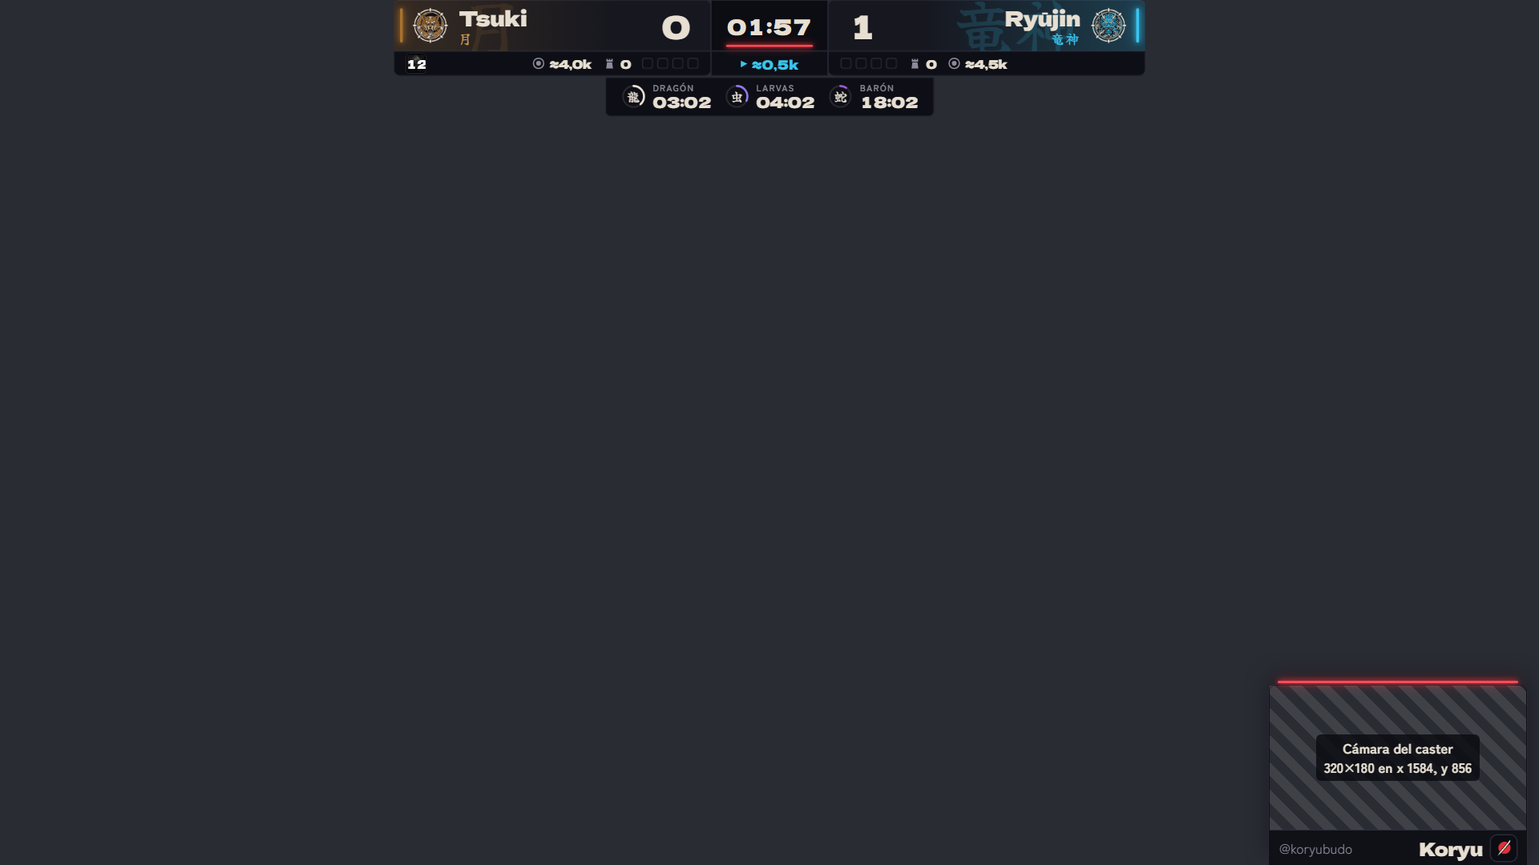
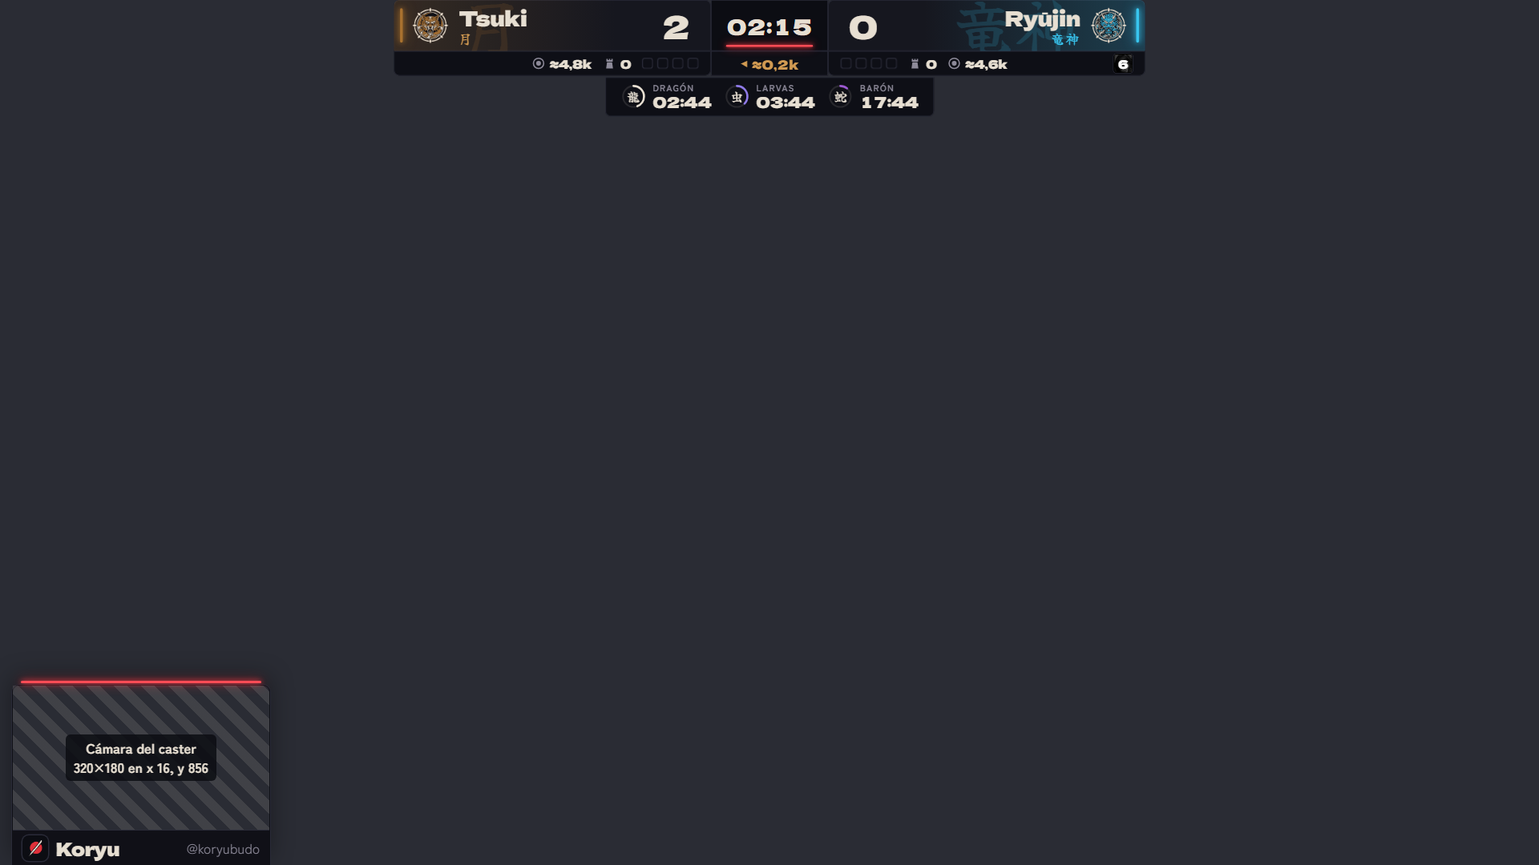
Partida: la cámara del caster vuelve abajo a la izquierda; el minimapa, abajo a la derecha
El usuario aclara que el marco del minimapa se queda pegado abajo a la
derecha, para que cuadre con el mapa del LoL. Por eso:

- La cámara del caster en partida pasa al hueco izquierdo de siempre: 320×180
  en x 16, y 856, con la placa de 44 px (sin espejo, radio de siempre). Sigue
  siendo una sola, aparte del línea por línea y con su interruptor.
- ZONA_MINIMAPA pasa a la derecha: x 1620, y 780, 300×300.
- Ficha azul: vuelve a x 72 y, con la cámara fuera, se aparta a x 360.
- Ficha roja: a 324 px del borde derecho (a 72 se metía en el minimapa).
- Textos del panel, README, PROGRESO y pruebas al día; capturas rehechas.

diff --git a/test/ingame.test.js b/test/ingame.test.js
@@ -226,47 +226,50 @@ test('el línea por línea va encogido a ESCALA_LINEAS: su caja de 1560×436 que
   const lineas = cajaLineas();
   assert.ok(Math.abs(lineas.x - 429.6) < 1 && Math.abs(lineas.x + lineas.w - 1490.4) < 1 && Math.abs(lineas.y - 783.5) < 1);
   assert.equal(lineas.y + lineas.h, 1080);
-  // Y no pisa la zona del minimapa, que va abajo a la izquierda
+  // Y no pisa la zona del minimapa, que va abajo a la derecha
   assert.ok(!seCruzan(lineas, ZONA_MINIMAPA), 'el línea por línea no pisa el minimapa');
 });
 
-test('la cámara del caster en partida: un solo hueco en 16:9 abajo a la derecha, con la placa hasta el borde', () => {
+test('la cámara del caster en partida: un solo hueco en 16:9 abajo a la izquierda, con la placa hasta el borde', () => {
   const h = camaraPartida();
-  assert.deepEqual(h, { x: 1584, y: 856, w: 320, h: 180 });
+  assert.deepEqual(h, { x: 16, y: 856, w: 320, h: 180 });
   assert.equal(h.w / h.h, 16 / 9, 'la cámara no se deforma');
   assert.equal(h.y + h.h + PLACA_CAMARA_PARTIDA, 1080, 'la placa del nombre llega justo al borde de abajo');
-  assert.ok(h.x + h.w + FILO_MARCO <= 1920, 'dentro del lienzo, con su filo');
+  assert.ok(h.x - FILO_MARCO >= 0, 'dentro del lienzo, con su filo');
   assert.equal(PLACA_CAMARA_PARTIDA, 44);
-  // La placa mide lo mismo en el CSS, y el marco lleva el radio de Gokudō arriba, como siempre
-  assert.match(leerRepo('public/ingame/ingame.css'), /\.placa-cam \{[^}]*height: 44px/);
+  // La placa mide lo mismo en el CSS, y el marco lleva el radio de Gokudō arriba, como siempre (sin espejo: va a la izquierda)
+  const css = leerRepo('public/ingame/ingame.css');
+  assert.match(css, /\.placa-cam \{[^}]*height: 44px/);
+  assert.ok(!/\.camara-partida \.placa-cam \{ flex-direction: row-reverse/.test(css));
   assert.match(leerRepo('public/ingame/estilo-a.css'), /\.camara-partida \{ border-radius: 8px 8px 0 0;/);
-  // El nombre de antes sigue valiendo, pero ya solo da este hueco (la cámara de la izquierda se quitó)
+  // El nombre de antes sigue valiendo, pero ya solo da este hueco (la cámara de la derecha se quitó)
   assert.deepEqual(camarasLineas(), [h]);
 });
 
-test('nada del overlay pisa el minimapa de abajo a la izquierda, y la cámara no pisa el línea por línea ni las fichas', () => {
-  // La zona del minimapa: el marco del realizador en x 30, y 804, 250×250, con su placa de 10, su sombra y la pestaña
-  // de arriba (unos 20 px por fuera)
-  const marco = { x: 30, y: 804, w: 250, h: 250 };
-  assert.ok(ZONA_MINIMAPA.x <= marco.x - 20 && ZONA_MINIMAPA.y <= marco.y - 20, 'la zona cubre el marco y lo que asoma');
-  assert.ok(ZONA_MINIMAPA.x + ZONA_MINIMAPA.w >= marco.x + marco.w + 20 && ZONA_MINIMAPA.y + ZONA_MINIMAPA.h === 1080);
+test('nada del overlay pisa el marco del minimapa de abajo a la derecha, y la cámara no pisa el línea por línea ni las fichas', () => {
+  // La zona del minimapa: su marco va pegado a la esquina de abajo a la derecha (más o menos de x 1640 a 1920 y de
+  // y 780 al borde, lo calibra el realizador), con algo de aire
+  assert.deepEqual(ZONA_MINIMAPA, { x: 1620, y: 780, w: 300, h: 300 });
+  assert.ok(ZONA_MINIMAPA.x <= 1640 && ZONA_MINIMAPA.y <= 780 && ZONA_MINIMAPA.x + ZONA_MINIMAPA.w >= 1920 && ZONA_MINIMAPA.y + ZONA_MINIMAPA.h >= 1080);
   const cam = marcoCamara(camaraPartida());
   assert.ok(!seCruzan(cam, ZONA_MINIMAPA), 'la cámara no pisa el minimapa');
   const lineas = cajaLineas();
   assert.ok(!seCruzan(cam, lineas), 'la cámara no pisa el línea por línea');
-  assert.ok(cam.x > lineas.x + lineas.w, 'y queda a su derecha, con aire');
+  assert.ok(cam.x + cam.w < lineas.x, 'y queda a su izquierda, con aire');
   // El marcador, los temporizadores, los módulos y los avisos van todos arriba (top de 112 a 172 px, en .arriba)
   assert.ok(cam.y > 700, 'muy por debajo del marcador y los avisos');
-  // Las fichas: la del lado azul empieza pasado el minimapa; la del rojo, con la cámara fuera, se aparta a su izquierda
+  // Las fichas: la del lado rojo no pisa el minimapa; la del azul, con la cámara fuera, se aparta a su derecha
   const css = leerRepo('public/ingame/ingame.css');
   const azul = cajaFicha({ left: px(reglaCss(css, '.ficha.azul'), 'left') });
+  const azulConCamara = cajaFicha({ left: px(reglaCss(css, 'body.con-camara-partida .ficha.azul'), 'left') });
   const rojo = cajaFicha({ right: px(reglaCss(css, '.ficha.rojo'), 'right') });
-  const rojoConCamara = cajaFicha({ right: px(reglaCss(css, 'body.con-camara-partida .ficha.rojo'), 'right') });
-  assert.ok([azul, rojo, rojoConCamara].every(f => Number.isFinite(f.x)), 'las tres posiciones se leen del CSS');
-  assert.ok(!seCruzan(azul, ZONA_MINIMAPA), 'la ficha azul no pisa el minimapa');
-  assert.ok(!seCruzan(rojo, ZONA_MINIMAPA) && !seCruzan(rojoConCamara, ZONA_MINIMAPA));
-  assert.ok(!seCruzan(rojoConCamara, cam), 'la ficha roja se aparta de la cámara');
-  assert.ok(azul.x < 960 && rojoConCamara.x + rojoConCamara.w > 960, 'cada una sigue en su lado');
+  assert.ok([azul, azulConCamara, rojo].every(f => Number.isFinite(f.x)), 'las tres posiciones se leen del CSS');
+  assert.equal(azul.x, 72, 'sin cámara, la ficha azul sigue donde estaba');
+  for (const f of [azul, azulConCamara, rojo]) assert.ok(!seCruzan(f, ZONA_MINIMAPA), 'ninguna ficha pisa el minimapa');
+  assert.ok(seCruzan(azul, cam), 'sin apartarse, la ficha azul chocaría con la cámara');
+  assert.ok(!seCruzan(azulConCamara, cam), 'la ficha azul se aparta de la cámara');
+  assert.ok(!seCruzan(rojo, cam));
+  assert.ok(azulConCamara.x < 960 && rojo.x + rojo.w > 960, 'cada una sigue en su lado');
 });
 
 // Las funciones de verdad de ingame.js, sacadas del archivo y ejecutadas con lo mínimo alrededor (sin navegador)
@@ -308,7 +311,7 @@ test('la cámara del caster sale por su cuenta en partida, se vea o no el línea
     pintarGraficos();
     assert.equal(mundo.pintadas.length, 1, `sale también con ${tipo}`);
   }
-  // Quitada en el panel: se va (aunque esté el línea por línea), y la ficha roja vuelve a su sitio
+  // Quitada en el panel: se va (aunque esté el línea por línea), y la ficha azul vuelve a su sitio
   mundo.estado = { grafico: { tipo: 'lineas' }, ingame: { camaras: camaras(false) } };
   pintarGraficos();
   assert.equal(mundo.lineas, true);

diff --git a/public/ingame/ingame.css b/public/ingame/ingame.css
@@ -224,7 +224,7 @@ body.oculto .sello::before, body.oculto .retrato::before { animation-play-state:
 .barra .relleno.rojo { left: 50%; transform-origin: 0 50%; }
 .dif { white-space: nowrap; }
 
-/* ---------- Cámara del caster en partida (abajo a la derecha; a la izquierda va el minimapa) ---------- */
+/* ---------- Cámara del caster en partida (abajo a la izquierda; a la derecha va el minimapa) ---------- */
 /* La ventana es transparente: la cámara va por debajo del overlay en OBS, en la posición que da el panel
    (camaraPartida en comun.js, que es quien la coloca). Entra y sale por su cuenta, se vea o no el línea por línea */
 .camaras-partida { position: absolute; inset: 0; pointer-events: none; }
@@ -239,9 +239,6 @@ body.oculto .sello::before, body.oculto .retrato::before { animation-play-state:
 .sello-cam img { width: 24px; height: 24px; object-fit: contain; }
 .nombre-cam { position: relative; min-width: 0; white-space: nowrap; overflow: hidden; text-overflow: ellipsis; }
 .detalle-cam { position: relative; min-width: 0; margin-left: auto; white-space: nowrap; overflow: hidden; text-overflow: ellipsis; }
-/* Va en el lado derecho: en espejo, como todo el lado rojo */
-.camara-partida .placa-cam { flex-direction: row-reverse; }
-.camara-partida .detalle-cam { margin-left: 0; margin-right: auto; }
 /* Guía para colocar las cámaras en OBS (?guia=1 o la vista previa del panel): la ventana rayada, con su medida */
 .medidas-cam { display: none; }
 body.guia .medidas-cam { display: grid; place-items: center; position: absolute; inset: 0;
@@ -250,12 +247,12 @@ body.guia .medidas-cam { display: grid; place-items: center; position: absolute;
 
 /* ---------- Ficha de un jugador (abajo, en el lado de su clan) ---------- */
 .ficha { position: absolute; bottom: 56px; display: grid; grid-template-columns: 290px 400px; gap: 22px; align-items: stretch; animation: fichaEntra var(--t-lento) var(--curva) both; }
-/* La del lado azul empieza pasada la zona del minimapa, que va abajo a la izquierda (ZONA_MINIMAPA en comun.js: hasta
-   x 300 y desde y 780); antes iba en x 72 */
-.ficha.azul { left: 324px; }
-.ficha.rojo { right: 72px; grid-template-columns: 400px 290px; transition: right var(--t-medio) var(--curva); }
-/* Con la cámara del caster fuera (abajo a la derecha, desde x 1584), la del lado rojo se aparta a su izquierda */
-body.con-camara-partida .ficha.rojo { right: 360px; }
+.ficha.azul { left: 72px; transition: left var(--t-medio) var(--curva); }
+/* Con la cámara del caster fuera (abajo a la izquierda, hasta x 336), la del lado azul se aparta a su derecha */
+body.con-camara-partida .ficha.azul { left: 360px; }
+/* La del lado rojo no pisa el marco del minimapa, abajo a la derecha (ZONA_MINIMAPA en comun.js: desde x 1620 y desde
+   y 780); antes iba a 72 px del borde y se metía en él */
+.ficha.rojo { right: 324px; grid-template-columns: 400px 290px; }
 .ficha.rojo .ficha-carta { order: 2; }
 .ficha.sale { animation: fichaSale var(--t-medio) var(--curva-salida) both; }
 @keyframes fichaEntra { from { opacity: 0; transform: translateY(30px); } }

diff --git a/public/comun.js b/public/comun.js
@@ -126,16 +126,17 @@ export function disposicionCamaras(n) {
 // Desde el 08/11 solo hay un estilo (el A)
 export const ESCALA_LINEAS = 0.68;  // 09/11: Pacopepe lo quiere más pequeño aún (antes 0.78)
 
-// Cámara del caster en partida: un hueco en 16:9 abajo a la derecha (el de la derecha de siempre), con la placa del
-// nombre (PLACA_CAMARA_PARTIDA) pegada debajo hasta el borde. Coordenadas del lienzo, sin la placa. Va por su cuenta,
-// se vea o no el línea por línea (12/11). El minimapa del LoL pasó abajo a la izquierda (marco del realizador en x 30,
-// y 804, 250×250: con su placa y su pestaña ocupa de x 0 a 300 y de y 780 al borde), así que ahí no va nada del
-// overlay: la cámara de la izquierda que había antes se quitó. Tampoco pisa la caja del línea por línea (hasta x 1490)
+// Cámara del caster en partida: un hueco en 16:9 abajo a la izquierda (el de la izquierda de siempre), con la placa
+// del nombre (PLACA_CAMARA_PARTIDA) pegada debajo hasta el borde. Coordenadas del lienzo, sin la placa. Va por su
+// cuenta, se vea o no el línea por línea (12/11). Abajo a la derecha va el marco del minimapa del LoL, pegado al borde
+// para que cuadre con el mapa (lo calibra el realizador: más o menos de x 1640 a 1920 y de y 780 al borde): ahí no va
+// nada del overlay (ZONA_MINIMAPA), así que la cámara de la derecha que había antes se quitó. Tampoco pisa la caja del
+// línea por línea (desde x 430)
 export const PLACA_CAMARA_PARTIDA = 44;
-export const ZONA_MINIMAPA = { x: 0, y: 780, w: 300, h: 300 };
+export const ZONA_MINIMAPA = { x: 1620, y: 780, w: 300, h: 300 };
 export function camaraPartida() {
   const w = 320, h = 180, margen = 16;
-  return { x: 1920 - margen - w, y: 1080 - PLACA_CAMARA_PARTIDA - h, w, h };
+  return { x: margen, y: 1080 - PLACA_CAMARA_PARTIDA - h, w, h };
 }
 // Alias de antes (lo que lo importe recibe ya solo el hueco de partida)
 export const camarasLineas = () => [camaraPartida()];

diff --git a/public/ingame/ingame.js b/public/ingame/ingame.js
@@ -1,6 +1,6 @@
 // Overlay de partida (/ingame/): marcador en directo con lo que manda el puente del PC donde se mira
 // la partida, temporizadores de los objetivos, lo que lleva cada clan (buffs, alma, inhibidores),
-// avisos de objetivos y resumen de pelea, la cámara del caster abajo a la derecha (si está activada) y, cuando lo
+// avisos de objetivos y resumen de pelea, la cámara del caster abajo a la izquierda (si está activada) y, cuando lo
 // saca el panel, el línea por línea, la ficha de un jugador o la gráfica de oro. Los clanes salen del
 // enfrentamiento del panel (lado azul a la izquierda).
 // El aspecto es el estilo A de Gokudō («Placas», estilo-a.css, acotado a data-estilo="a" en <body>). Pacopepe se quedó con
@@ -501,12 +501,12 @@ function pintarLineas(mostrar) {
   });
 }
 
-// ---------- cámara del caster en partida, abajo a la derecha ----------
-// Un hueco transparente abajo a la derecha (abajo a la izquierda va el minimapa del LoL): la cámara va por debajo del
+// ---------- cámara del caster en partida, abajo a la izquierda ----------
+// Un hueco transparente abajo a la izquierda (abajo a la derecha va el minimapa del LoL): la cámara va por debajo del
 // overlay en OBS, justo donde dice el panel (camaraPartida en comun.js). Va por su cuenta, se vea o no el línea por línea: sale (con su animación) cuando se
 // activa en el panel y hay partida, y se va al quitarla. Lleva el marco de caster: el emblema de Gokudō y el nombre y
-// el detalle que se escriban en el panel. Es ingame.camaras[0]; la segunda de la lista no sale (la izquierda de
-// antes chocaría con el minimapa)
+// el detalle que se escriban en el panel. Es ingame.camaras[0]; la segunda de la lista no sale (la derecha de
+// antes chocaría con el marco del minimapa)
 function pintarCamaraPartida() {
   const cam = estado?.ingame?.camaras?.[0];
   const ver = Boolean(cam?.activa && partida?.activo);

diff --git a/public/panel/panel.js b/public/panel/panel.js
@@ -694,8 +694,8 @@ function pintarIngame() {
   pintarCamaraPartida();
 }
 
-// ---------- Cámara del caster en partida, abajo a la derecha ----------
-// Un solo hueco, abajo a la derecha (camaraPartida en comun.js; abajo a la izquierda va el minimapa), que va por su cuenta: no depende del línea por línea.
+// ---------- Cámara del caster en partida, abajo a la izquierda ----------
+// Un solo hueco, abajo a la izquierda (camaraPartida en comun.js; abajo a la derecha va el minimapa), que va por su cuenta: no depende del línea por línea.
 // Es ingame.camaras[0] en el estado (la segunda de la lista, la derecha de antes, ya no sale). Marcarla se aplica al
 // momento; el nombre y el detalle, con el botón, como en las cámaras del draft
 let camaraPartidaRellena = false;
@@ -715,7 +715,7 @@ function pintarCamaraPartida() {
 $('#camaraPartidaActiva').onchange = async e => {
   const activa = e.target.checked;
   const r = await enviar('ingame', { camaras: [{ activa }] });
-  if (r.ok) aviso(activa ? 'Cámara del caster activada: sale en la partida, abajo a la derecha' : 'Cámara del caster quitada');
+  if (r.ok) aviso(activa ? 'Cámara del caster activada: sale en la partida, abajo a la izquierda' : 'Cámara del caster quitada');
 };
 $('#guardarCamaraPartida').onclick = async () => {
   const r = await enviar('ingame', { camaras: [{ nombre: $('#camaraPartidaNombre').value.trim(), detalle: $('#camaraPartidaDetalle').value.trim() }] });

diff --git a/public/panel/index.html b/public/panel/index.html
@@ -276,7 +276,7 @@
           <input id="camaraPartidaDetalle" aria-label="Detalle de la cámara en partida" placeholder="@usuario" maxlength="60">
         </div>
         <div class="fila"><button id="guardarCamaraPartida" class="secundario">Poner el nombre en el overlay</button></div>
-        <p class="ayuda">Un marco de caster abajo a la derecha del marcador de partida (abajo a la izquierda va el minimapa), con el nombre que escribas. Va por su cuenta: sale mientras esté marcada y haya partida, con línea por línea o sin él. En OBS, pon la cámara por debajo del overlay y encájala en su hueco con la medida que tiene al lado.</p>
+        <p class="ayuda">Un marco de caster abajo a la izquierda del marcador de partida (abajo a la derecha va el minimapa), con el nombre que escribas. Va por su cuenta: sale mientras esté marcada y haya partida, con línea por línea o sin él. En OBS, pon la cámara por debajo del overlay y encájala en su hueco con la medida que tiene al lado.</p>
       </details>
       <details class="plegable">
         <summary>Qué sale en el marcador</summary>

diff --git a/public/ingame/index.html b/public/ingame/index.html
@@ -112,7 +112,7 @@
   </section>
   </div>
 
-  <!-- Cámara del caster en partida: un hueco transparente abajo a la derecha (la cámara va
+  <!-- Cámara del caster en partida: un hueco transparente abajo a la izquierda (la cámara va
        por debajo del overlay, en OBS). La activa el panel y va por su cuenta, se vea o no el línea por línea -->
   <div class="camaras-partida"></div>
 

diff --git a/PROGRESO.md b/PROGRESO.md
@@ -422,12 +422,12 @@ Diseño aprobado en `docs/superpowers/specs/2026-10-04-ingame-mejoras-design.md`
 - **Postdraft:** la carta entera encogida no se veía (dibujo oscuro bajo su velo, textos cortados). Ahora cada jugador lleva el icono de su carta: el dibujo sin velo, la tier en una esquina y el filo de su color. Los iconos de 256×256 están en `public/cartas/mini/` (48), salen de `scripts/hacer-mini-cartas.mjs` (ffmpeg) y el catálogo los lleva en `mini`; sin icono, el dibujo grande.
 - Pruebas: 270 (`test/adelanto.test.js` nueva). Comprobado en local de punta a punta (falso puente + falso PC 1).
 
-## 12/11: la cámara del caster en partida va por su cuenta, y el minimapa pasa abajo a la izquierda
+## 12/11: la cámara del caster en partida va por su cuenta, abajo a la izquierda
 
-- **Lo que pidió el usuario:** «la cámara dejará de estar unida al línea por línea y funcionará aparte cuando esté en partida». Después aclaró que lo que va pegado a la esquina izquierda es el marco del minimapa: «Perdón el marco de la cámara no era, era del mapa».
-- **Reparto abajo:** el minimapa del LoL va abajo a la izquierda (marco del realizador en x 30, y 804, 250×250; con su placa y su pestaña 極道 MAPA ocupa de x 0 a 300 y de y 780 al borde: `ZONA_MINIMAPA` en `public/comun.js`). Ahí no va nada del overlay.
-- **Cámara del caster en partida:** un solo hueco, el de la derecha de siempre: 320×180 en x 1584, y 856, con la placa de 44 px hasta el borde (`camaraPartida()` en `public/comun.js`; `camarasLineas()` queda como alias). Sale mientras esté marcada en el panel y haya partida, se vea o no el línea por línea, con su entrada y su salida (`pintarCamaraPartida` en `public/ingame/ingame.js`). La de la izquierda se quitó: chocaría con el minimapa.
-- **Fichas:** la del lado azul pasa de x 72 a x 324 (iba encima del minimapa); la del rojo, con la cámara fuera, se aparta a su izquierda (`right: 360px`). Lo demás (marcador, avisos, módulos) va arriba, y el línea por línea y la gráfica siguen de x 430 a 1490.
+- **Lo que pidió el usuario:** «la cámara dejará de estar unida al línea por línea y funcionará aparte cuando esté en partida». Después aclaró que lo que va pegado a una esquina es el marco del minimapa («Perdón el marco de la cámara no era, era del mapa») y que se queda abajo a la derecha: «tiene que estar el marco del minimapa pegado a la derecha abajo, para que cuadre bien con el minimapa».
+- **Reparto abajo:** el marco del minimapa del LoL va abajo a la derecha, pegado al borde (lo calibra el hilo del realizador; más o menos de x 1640 a 1920 y de y 780 al borde). La zona reservada es `ZONA_MINIMAPA` en `public/comun.js` (x 1620, y 780, 300×300): ahí no va nada del overlay.
+- **Cámara del caster en partida:** un solo hueco, el de la izquierda de siempre: 320×180 en x 16, y 856, con la placa de 44 px hasta el borde (`camaraPartida()` en `public/comun.js`; `camarasLineas()` queda como alias). Sale mientras esté marcada en el panel y haya partida, se vea o no el línea por línea, con su entrada y su salida (`pintarCamaraPartida` en `public/ingame/ingame.js`). La de la derecha se quitó: chocaría con el marco del minimapa.
+- **Fichas:** la del lado rojo pasa de 72 a 324 px del borde derecho (se metía en el marco del minimapa); la del azul sigue en x 72 y, con la cámara fuera (`body.con-camara-partida`), se aparta a x 360. Lo demás (marcador, avisos, módulos) va arriba, y el línea por línea y la gráfica siguen de x 430 a 1490.
 - **Panel:** bloque propio «Cámara del caster en partida» en Ajustes del directo, con su casilla, el nombre, el @detalle y la medida para OBS. Los avisos ya no hablan del línea por línea.
 - **Estado:** sigue siendo `ingame.camaras` con dos; la que sale es la primera y la segunda se queda por compatibilidad con lo guardado.
-- Pruebas nuevas en `test/ingame.test.js` (el hueco, que no pisa el minimapa ni el línea por línea, las fichas y que la cámara sale sin el línea por línea). Capturas en `docs/capturas/gokudo/optimizacion/`.
+- Pruebas nuevas en `test/ingame.test.js` (el hueco, que nada pisa el minimapa ni la cámara pisa el línea por línea o las fichas, y que la cámara sale sin el línea por línea). Capturas en `docs/capturas/gokudo/optimizacion/`.

diff --git a/README.md b/README.md
@@ -225,7 +225,7 @@ Los vídeos terminados (inicio y final con su música, transición, cabeceras de
 - **Debajo de cada clan:** buff de Barón y buff ancestral con su cuenta atrás, punto de alma o alma conseguida (sello con el kanji del elemento) e inhibidores caídos hasta que vuelven.
 - **Avisos** con sello cuando un clan se lleva un dragón, el Barón o el heraldo, o rompe un inhibidor.
 - **Línea por línea** (lo saca el panel durante 20 s, 45 s o hasta quitarlo): objetos, oro, KDA, súbditos, nivel y muertes de cada jugador contra su rival, con el logo de Tenka Ichi en medio y un brillo en el retrato de quien va en racha (3 asesinatos o más sin morir; más fuerte a partir de 5). Junto al nombre, el **shutdown aproximado** (≈, desde 100): el juego no lo da a los espectadores y desde el parche 14.21 depende de todo el oro ganado, así que `estimarRecompensas` en `server/partida.js` lo calcula con las reglas de 26.03 (base 300-420 según el nivel; 1 de recompensa por cada 3 de oro de asesinatos y asistencias y por cada 20 de súbditos; al morir baja 1 por cada 3,5 de oro repartido o se pierde entero si era shutdown; tope base + 700; pasadas las 6:00 se reduce si su equipo no va claramente por delante). Supone unos 22 de oro por súbdito y que el nivel y los súbditos crecen por igual; los números están en `RECOMPENSAS`. Cada jugador se empareja con su puesto por el nombre de la plantilla, el campeón del draft, la posición que da el cliente o Aplastar, en ese orden.
-- **Cámara del caster en partida** (panel, Ajustes del directo, «Cámara del caster en partida»): un hueco transparente de 320×180 abajo a la derecha (x 1584, y 856), con la placa del nombre de 44 px debajo hasta el borde y marco de caster (el emblema de Gokudō y el nombre y el detalle que se escriban en el panel). Va por su cuenta desde el 12/11: sale mientras esté marcada y haya partida, se vea o no el línea por línea. La posición sale de `camaraPartida` en `public/comun.js`; el panel la enseña junto a la casilla, y `/ingame/?guia=1` o `/overlay/?guia=1` pintan el hueco rayado con su medida. En OBS la cámara va por debajo del overlay y por encima de la captura del juego. Abajo a la izquierda va el minimapa del LoL (marco del realizador en x 30, y 804, 250×250; con su placa y su pestaña ocupa de x 0 a 300 y de y 780 al borde: `ZONA_MINIMAPA` en `public/comun.js`), y ahí no va nada del overlay: la ficha del lado azul empieza en x 324 y, con la cámara fuera, la del lado rojo se aparta a su izquierda. En el estado es `ingame.camaras[0]`; la segunda de la lista (antes había dos cámaras, una a cada lado del línea por línea) se queda por compatibilidad, pero ya no sale.
+- **Cámara del caster en partida** (panel, Ajustes del directo, «Cámara del caster en partida»): un hueco transparente de 320×180 abajo a la izquierda (x 16, y 856), con la placa del nombre de 44 px debajo hasta el borde y marco de caster (el emblema de Gokudō y el nombre y el detalle que se escriban en el panel). Va por su cuenta desde el 12/11: sale mientras esté marcada y haya partida, se vea o no el línea por línea. La posición sale de `camaraPartida` en `public/comun.js`; el panel la enseña junto a la casilla, y `/ingame/?guia=1` o `/overlay/?guia=1` pintan el hueco rayado con su medida. En OBS la cámara va por debajo del overlay y por encima de la captura del juego. Abajo a la derecha va el marco del minimapa del LoL, pegado al borde para que cuadre con el mapa (lo calibra el realizador; la zona reservada es de x 1620 a 1920 y de y 780 al borde: `ZONA_MINIMAPA` en `public/comun.js`), y ahí no va nada del overlay: la ficha del lado rojo va a 324 px del borde derecho y, con la cámara fuera, la del lado azul se aparta a su derecha. En el estado es `ingame.camaras[0]`; la segunda de la lista (antes había dos cámaras, una a cada lado del línea por línea) se queda por compatibilidad, pero ya no sale.
 
 Cómo llegan los datos:
 
